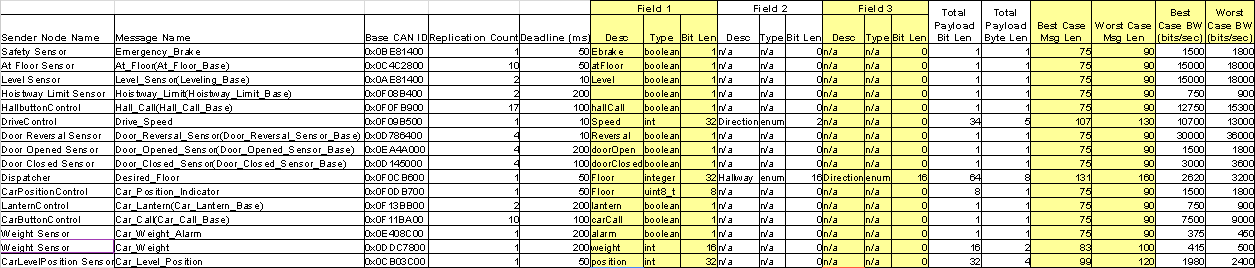
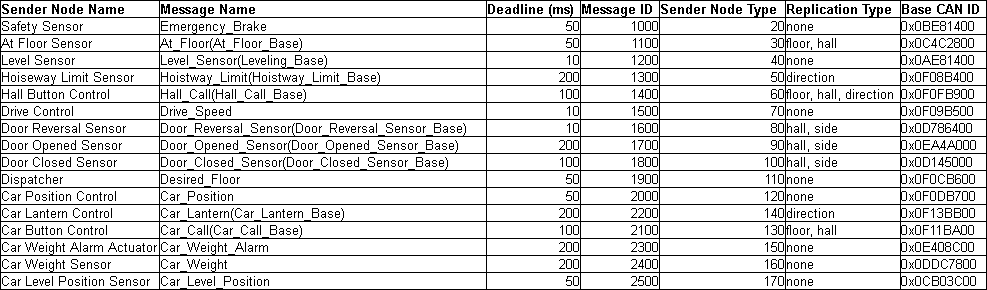
network stuff

diff --git a/portfolio/network_schedule/network_schedule.html b/portfolio/network_schedule/network_schedule.html
@@ -7,22 +7,28 @@
 <body>
 <h1 style="text-align: center;">18649 - Network Schedule<br>
 </h1>
-<hr style="width: 100%; height: 2px;">18649 &lt;semester&gt;<br>
-Group x - Student names and andrewIds<br>
+<hr style="width: 100%; height: 2px;">18649 &lt;semester FALL 2014 &gt;<br>
+Group 11 - Eric Newhall enewhall, Jonathan Leung kjleung1, Mengzhe Li mzli, Ting Xu tingx<br>
 <hr style="width: 100%; height: 2px;">
 <h2>CAN Message Dictionary<br>
 </h2>
-Add a summary here<br>
+Messages that are generated and used by the elevator.  Messages with the same<br>
+sender node will have the same sender node type and message ID.  Deadline determines <br>
+how frequently the message must be sent.  The replication determines how many times <br>
+the same message is sent for different objects.<br>
+
 <br>
 <img alt="message_dictionary.png" src="message_dictionary.png"
  style="border: 0px solid ; width: 987px; height: 375px;">
 <br>
 <h2>Network Schedule Analaysis</h2>
 <br>
-Add a summary here<br>
+The best case message lengths can be determined by 67+8*(size of payload in bytes)<br>
+The worst case message lengths can be determined by 67+8*(size of payload in bytes) + Floor[(54+8*(size of payload in bytes)) / 4]<br>
+Then the number of bytes sent per minute can be calculated from the deadlines and the best/worst case message lengths.<br>
 <br>
 <img alt="network_schedule.png" src="network_schedule.png"
- style="border: 0px solid ; width: 1255px; height: 338px;">
+ style="border: 0px solid ; width: 1255px; height: 268px;">
 <br>
 <a href="network-schedule.xlsx">network-schedule.xlsx</a>
 <br>
